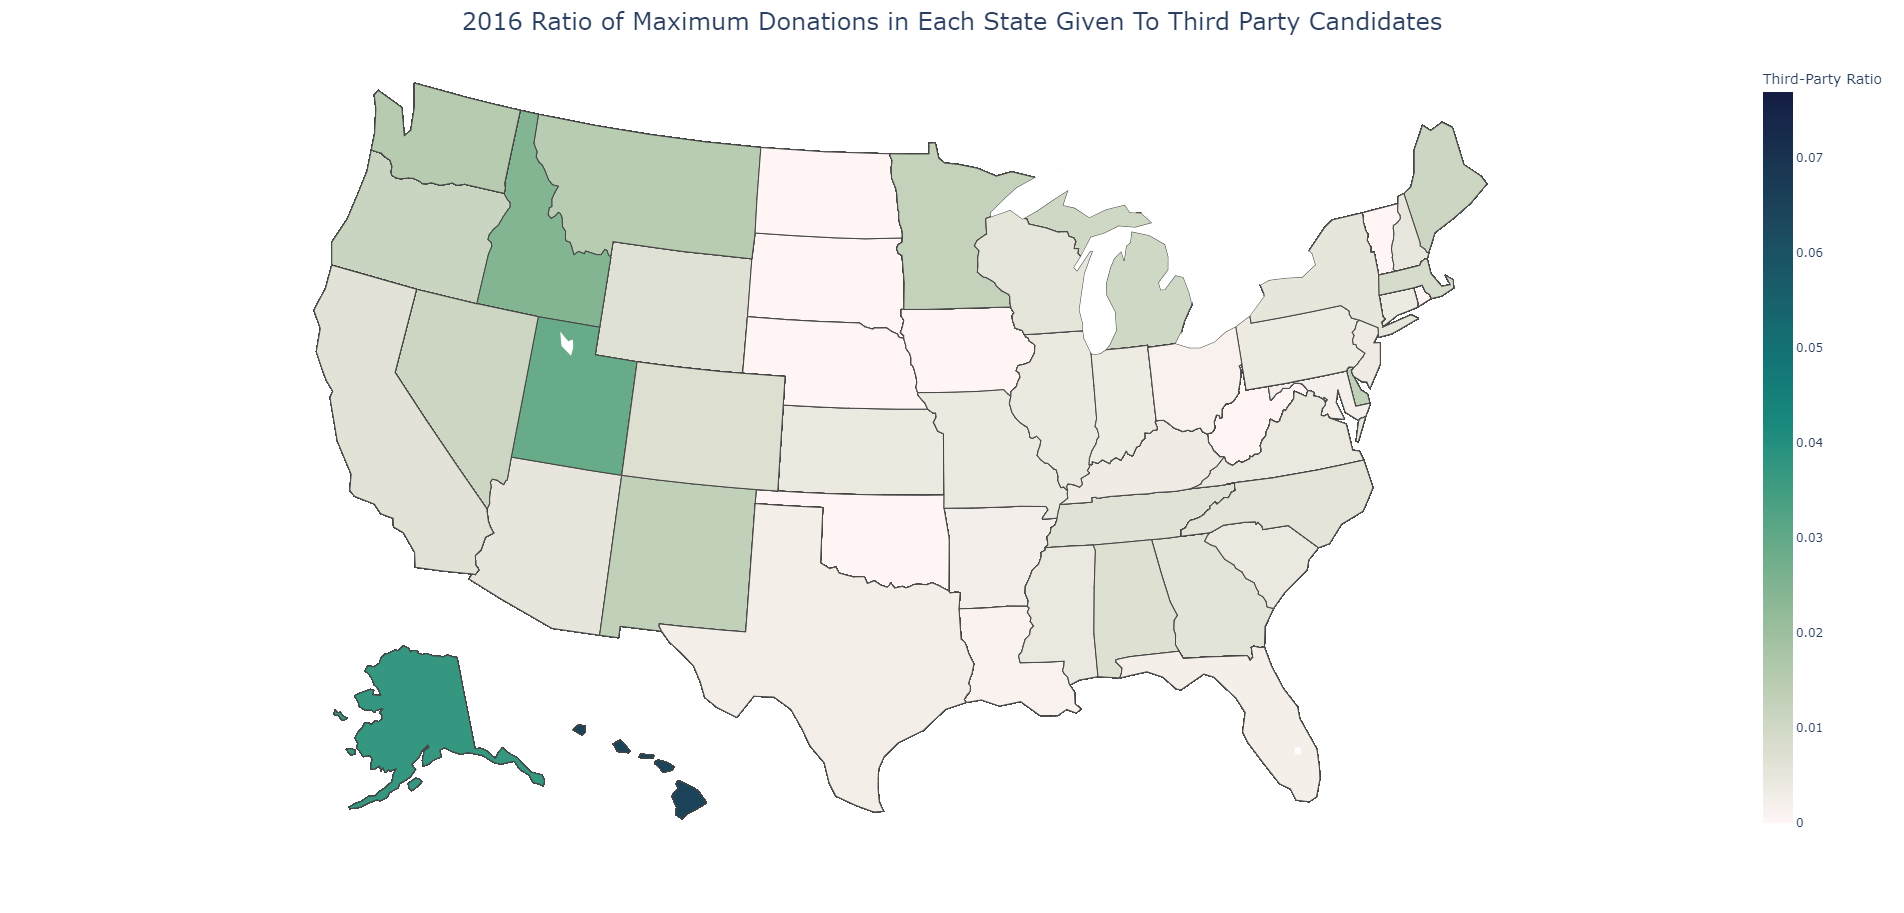
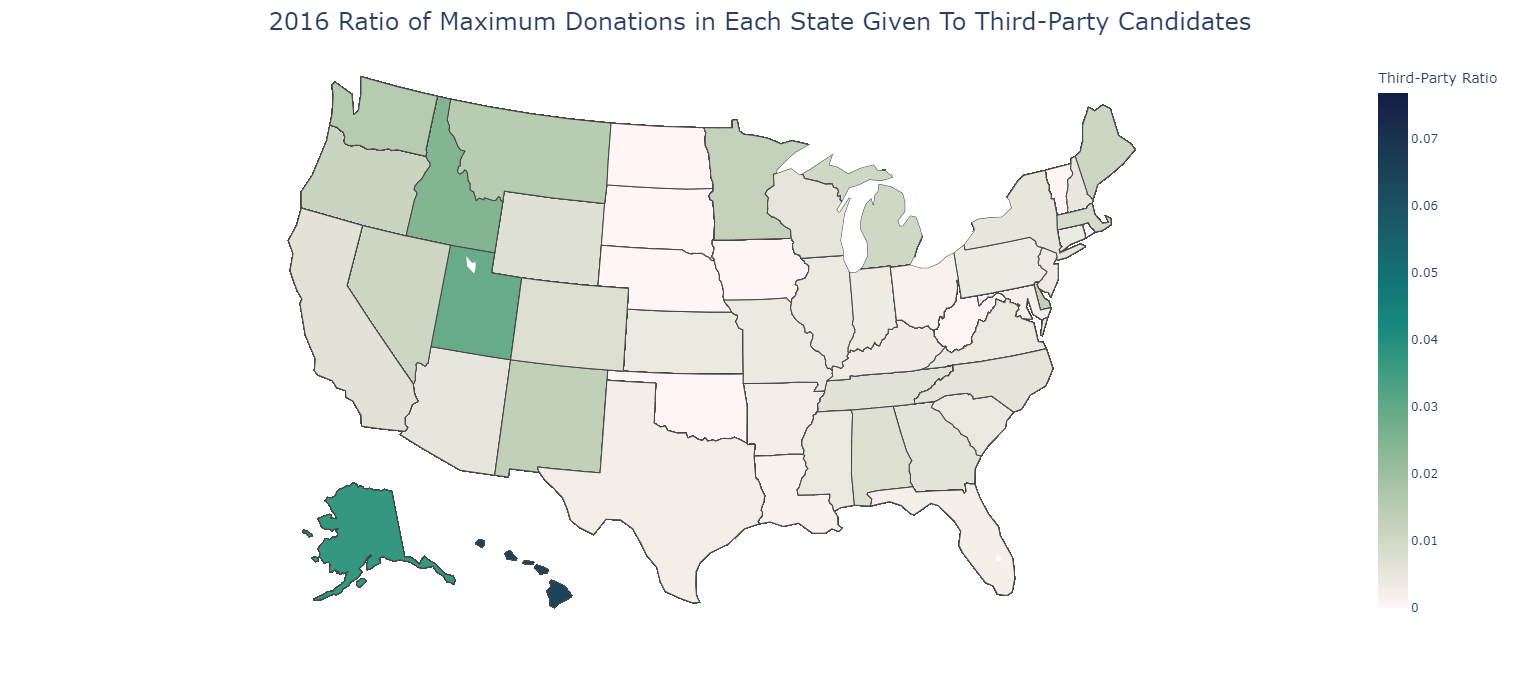
Add files via upload

diff --git a/graph code.py b/graph code.py
@@ -144,7 +144,7 @@ for state in data2016['contributor_state'].unique():
 data2016['percent_third'] = [third_percents_2016[state] for state in data2016['contributor_state']]
 # Graphing the third-party percentages for 2016
 fig = px.choropleth(data2016, locations='contributor_state', locationmode='USA-states', scope='usa', color='percent_third', color_continuous_scale = 'tempo', labels={'percent_third':'Third-Party Ratio'})
-fig.update_layout(title_text='2016 Ratio of Maximum Donations in Each State Given To Third Party Candidates', title_x=0.5, title_font_size = 24, geo=dict(bgcolor='rgba(0,0,0,0)'))
+fig.update_layout(title_text='2016 Ratio of Maximum Donations in Each State Given To Third-Party Candidates', title_x=0.5, title_font_size = 24, geo=dict(bgcolor='rgba(0,0,0,0)'))
 fig.show()
 
 # Adding third-party percentage for each state in 2020 to the dataframe
@@ -156,5 +156,5 @@ for state in data2020['contributor_state'].unique():
 data2020['percent_third'] = [third_percents_2020[state] for state in data2020['contributor_state']]
 # Graphing the third-party percentages for 2020
 fig = px.choropleth(data2020, locations='contributor_state', locationmode='USA-states', scope='usa', color='percent_third', color_continuous_scale = 'tempo', labels={'percent_third':'Third-Party Ratio'})
-fig.update_layout(title_text='2020 Ratio of Maximum Donations in Each State Given To Third Party Candidates', title_x=0.5, title_font_size = 24, geo=dict(bgcolor='rgba(0,0,0,0)'))
+fig.update_layout(title_text='2020 Ratio of Maximum Donations in Each State Given To Third-Party Candidates', title_x=0.5, title_font_size = 24, geo=dict(bgcolor='rgba(0,0,0,0)'))
 fig.show()
